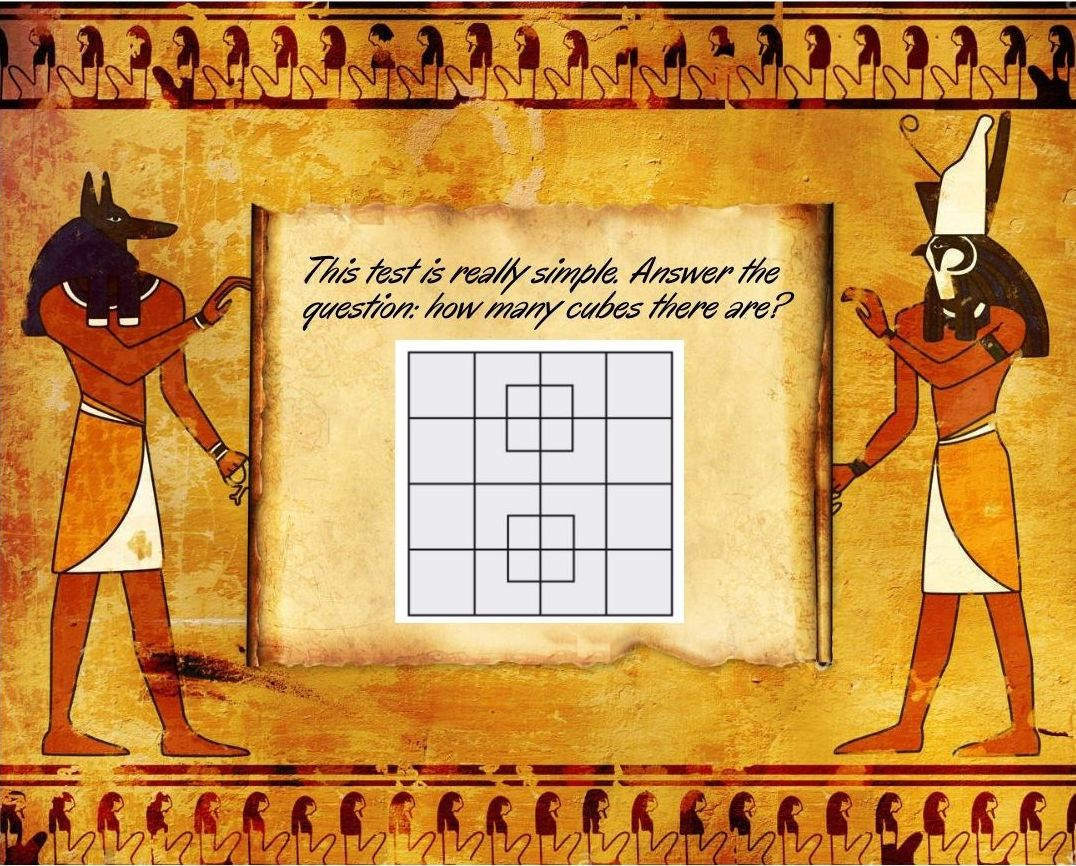
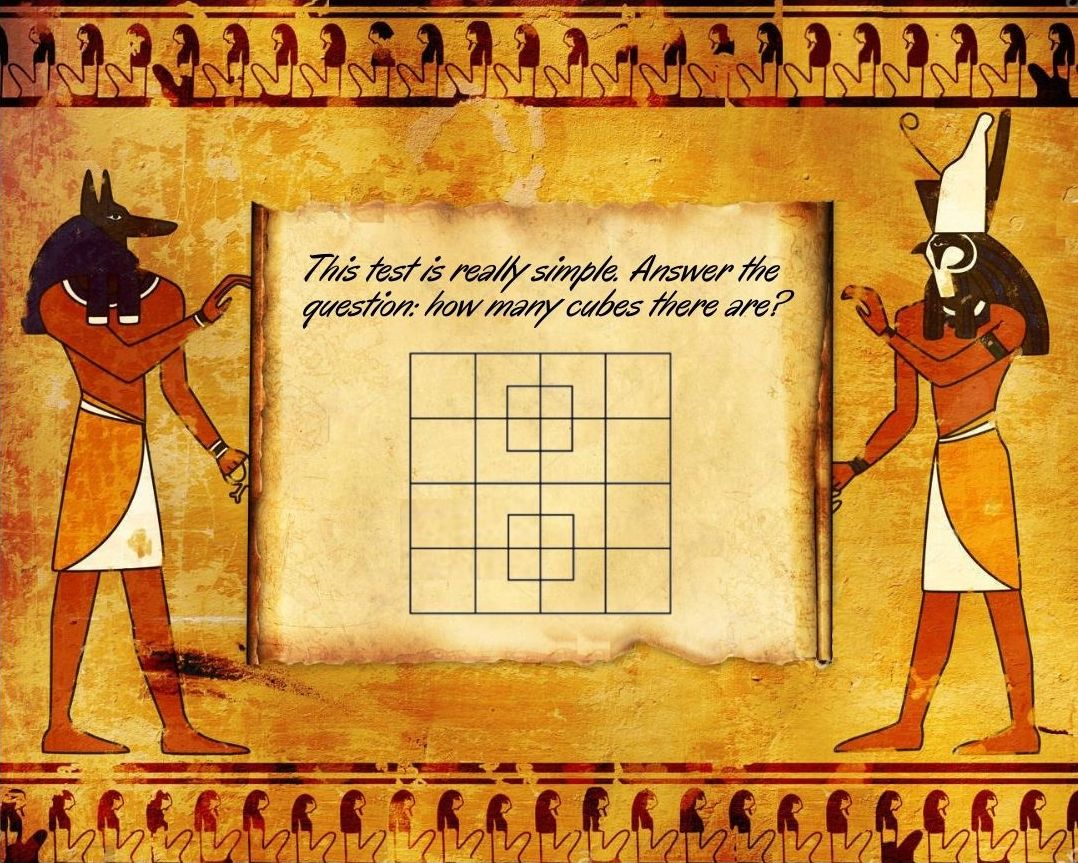
page7 game ok

diff --git a/page3.js b/page3.js
@@ -98,6 +98,36 @@ function check3(){
     }
     document.getElementById("triesLeft").innerHTML = result;
 }
+function check4(){
+    var str = document.getElementById("answer").value;
+    if((str == "louxor") && (nb < max)){
+        alert("CORRECT!");
+        window.location.href="file:///Users/axel/Desktop/Web%20Technologies/Projet/escape_game/page6b.html";
+        document.getElementById("checkbutton").style.display = "none";
+        document.getElementById("answer").style.display = "none";
+    } else{
+        var result = max - nb - 1;
+        alert("WRONG! " + " Remaining tries: " + result);
+        nb ++;
+    }
+    if(nb == 3){
+        alert("Sorry it was your last chance... The pyramid got you. You will now go to jail for 15 seconds before trying again");
+        document.body.style.backgroundImage = "url('images/jail.png')";
+        document.body.style.backgroundPosition = "300px -150px";
+        document.body.style.backgroundColor = "grey";
+        document.getElementById("triesLeft").style.display = "none";
+        document.getElementById("triesR").style.display = "none";
+        document.getElementById("div1").style.display = "none";
+        document.getElementById("exit").style.display = "none";
+        document.getElementById("checkbutton").style.display = "none";
+        document.getElementById("answer").style.display = "none";
+        document.getElementById("bip").style.display = "block";
+        document.getElementById("bip1").style.display = "block";
+
+        start4();
+    }
+    document.getElementById("triesLeft").innerHTML = result;
+}
 
 //timer
 var counter = 15;
@@ -140,6 +170,16 @@ function bip3(){
         document.getElementById("bip").innerHTML = counter + " seconds";
     }   
 }
+function bip4(){
+    counter--;
+    if(counter == 0){
+        finish();
+        window.location.href="file:///Users/axel/Desktop/Web%20Technologies/Projet/escape_game/page7.html";
+    } 
+    else {  
+        document.getElementById("bip").innerHTML = counter + " seconds";
+    }   
+}
 //start timer
 function start(){
   intervalId = setInterval(bip, 1000);
@@ -149,6 +189,9 @@ function start2(){
 }
 function start3(){
   intervalId2 = setInterval(bip3, 1000);
+}
+function start4(){
+  intervalId2 = setInterval(bip4, 1000);
 }
 
 //help button

diff --git a/page7.html b/page7.html
@@ -7,7 +7,7 @@
 	</head>
 	<body>
 		<div class="div1" id="div1">
-			<p>can you pass this test?</p>
+			<p>Geographie test</p>
 		</div>
 		<br>
 		<div >
@@ -19,8 +19,8 @@
 		<br>
 		<p id="bip" class="bip"></p>
 		<br><br><br>
-		<input type="text" class="answer" id="answer" required minlength="1" maxlength="2" placeholder=" Answer">
-		<button id="checkbutton" class="checkButton" onclick="check2()">Check</button>
+		<input type="text" class="answer" id="answer" required minlength="1" maxlength="7" placeholder=" Answer">
+		<button id="checkbutton" class="checkButton" onclick="check4()">Check</button>
 
 		<div>
 			<a id="exit" class="buttonExit" href="file:///Users/axel/Desktop/Web%20Technologies/Projet/escape_game/home_page.html" onClick= "return confirmer()"> Exit</a>

diff --git a/page7.css b/page7.css
@@ -1,6 +1,6 @@
 body {
 	background-color: orange;
-	background-image:url(images/game2.jpg);
+	background-image:url(images/game3.jpg);
 	background-repeat: no-repeat;
     background-size: 151vh;
     background-position: 100% 40%;
